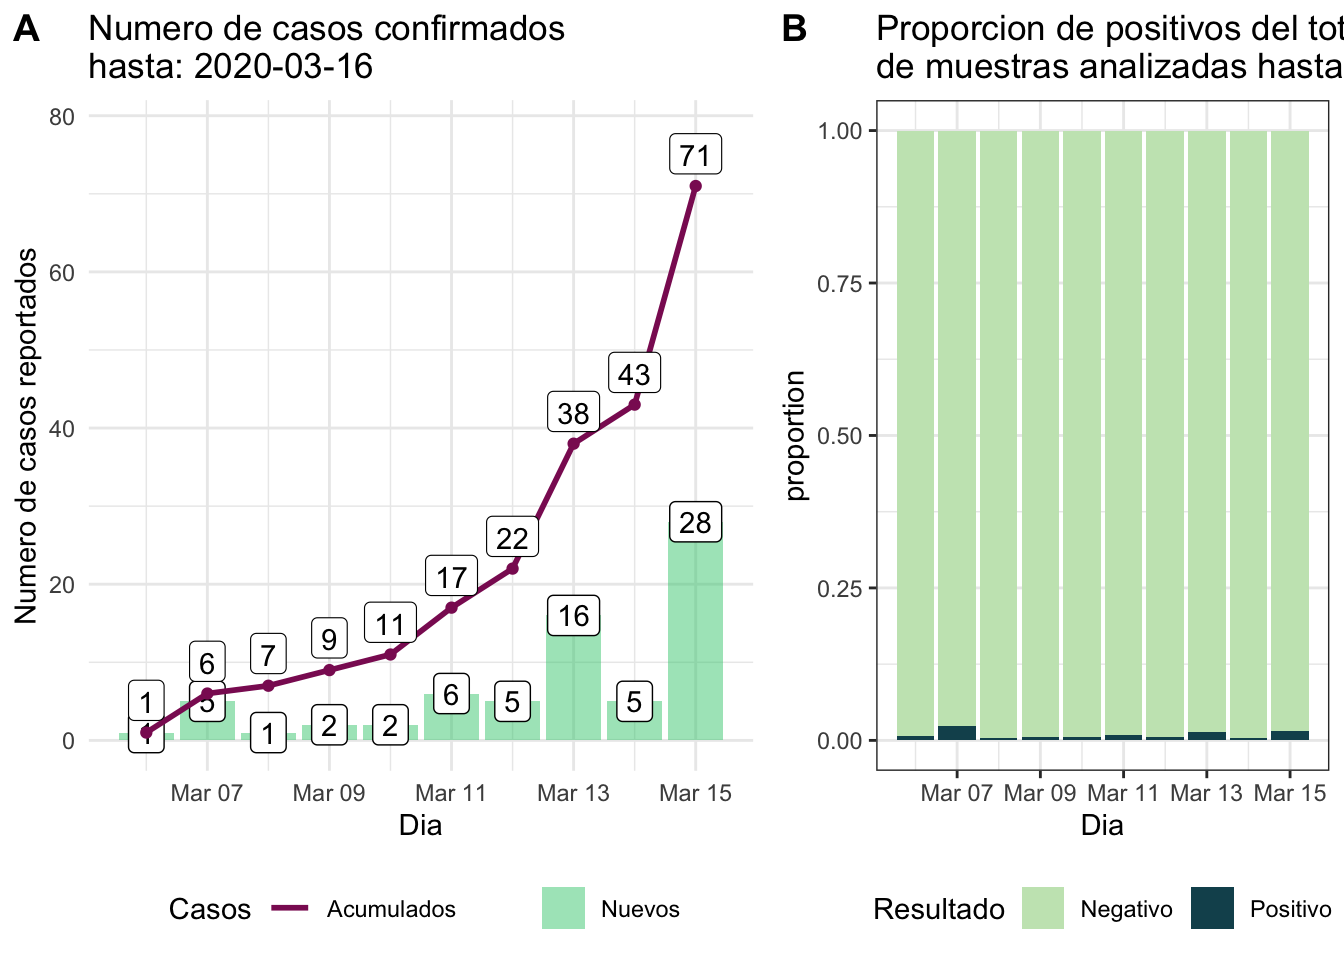
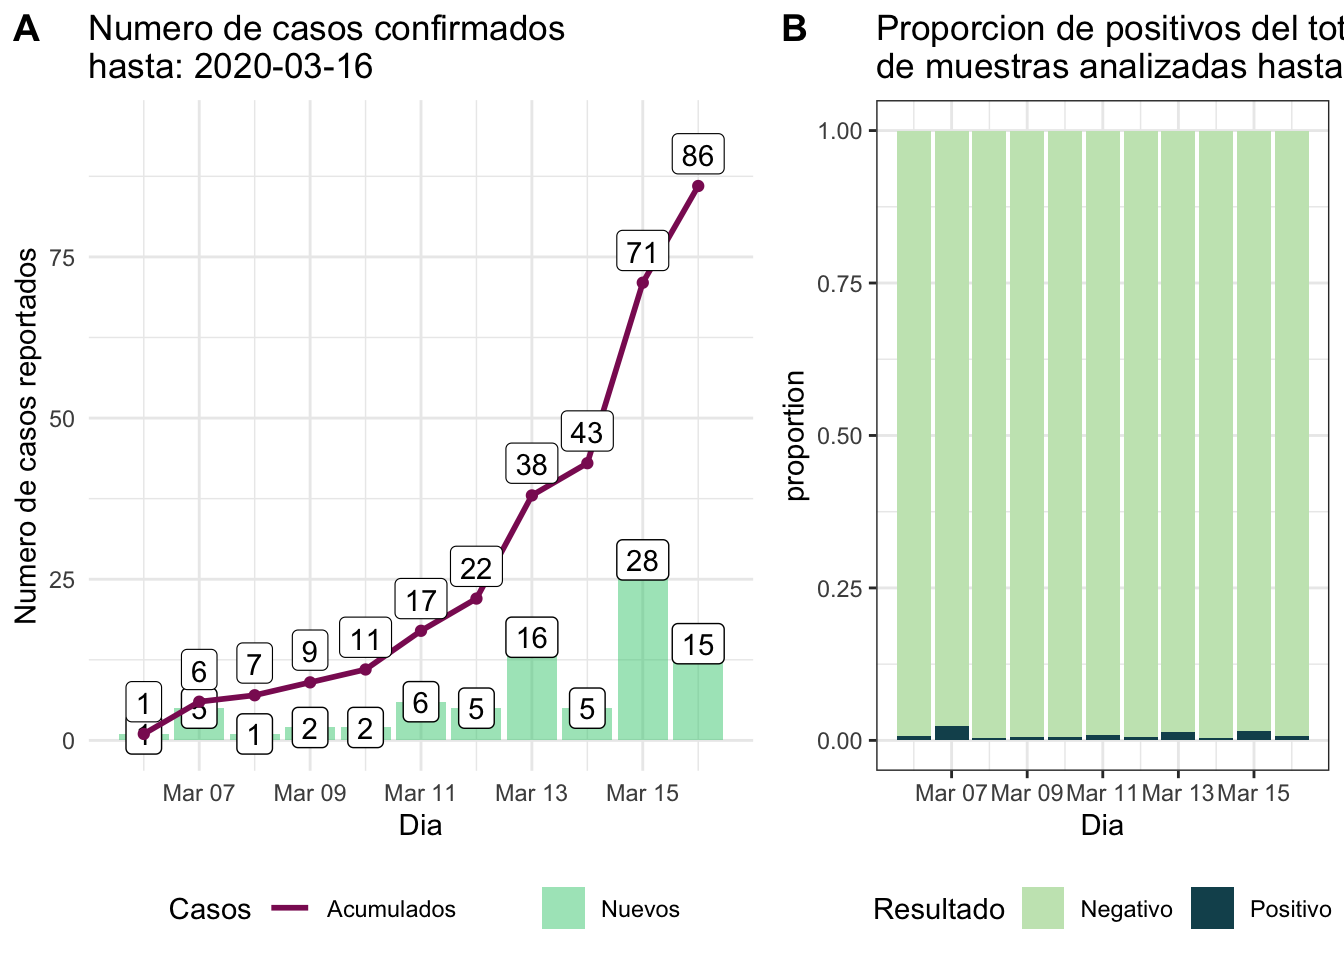
update propagacion

diff --git a/docs/Propagacion.html b/docs/Propagacion.html
@@ -575,6 +575,23 @@ NA
 28
 </td>
 </tr>
+<tr>
+<td style="text-align:left;">
+2020-03-16
+</td>
+<td style="text-align:right;">
+86
+</td>
+<td style="text-align:right;">
+2315
+</td>
+<td style="text-align:right;">
+493
+</td>
+<td style="text-align:right;">
+15
+</td>
+</tr>
 </tbody>
 </table>
 </div>
@@ -584,6 +601,14 @@ NA
 <div id="fuentes" class="section level2">
 <h2><span class="header-section-number">0.4</span> Fuentes</h2>
 <p>Para la construcción de la tabla he usado la información difundida por MINSA en su cuenta oficial de twitter <span class="citation">[@Minsa_Peru]</span>(<a href="https://twitter.com/Minsa_Peru" class="uri">https://twitter.com/Minsa_Peru</a>)</p>
+<p>03/16</p>
+<blockquote class="twitter-tweet">
+<p lang="es" dir="ltr">
+Ministra <a href="https://twitter.com/EHinostrozaP?ref_src=twsrc%5Etfw"><span class="citation">@EHinostrozaP</span></a>: Hasta el corte de la mañana, se tienen 86 casos confirmados de <a href="https://twitter.com/hashtag/COVID19?src=hash&amp;ref_src=twsrc%5Etfw">#COVID19</a> de 2315 casos investigados. La mayor parte de casos se concentra en Lima. <a href="https://t.co/7AaHtMNrXw">pic.twitter.com/7AaHtMNrXw</a>
+</p>
+— Ministerio de Salud (<span class="citation">@Minsa_Peru</span>) <a href="https://twitter.com/Minsa_Peru/status/1239548049191550978?ref_src=twsrc%5Etfw">March 16, 2020</a>
+</blockquote>
+<script async src="https://platform.twitter.com/widgets.js" charset="utf-8"></script>
 <p>03/15</p>
 <blockquote class="twitter-tweet">
 <p lang="es" dir="ltr">
